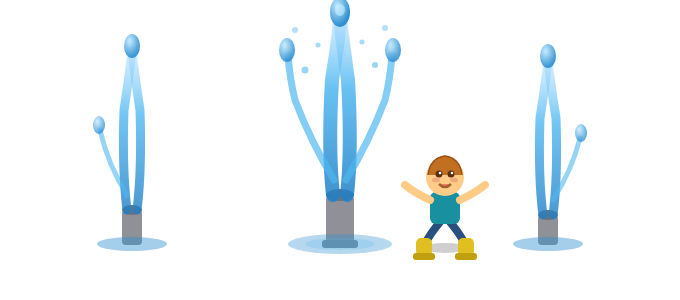
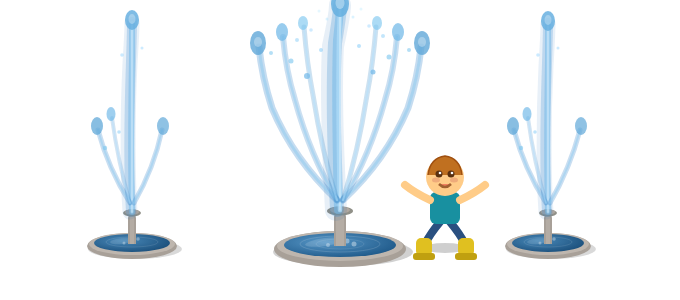
Wasser: realistischere Fontänen + Kartenposition korrigiert
- Fontänen neu: Steinbecken mit 3D-Rand, Wasseroberfläche mit Glanz/Kräusel/Schaum,
  konische Säule, 5-schichtige transluzente Wasserstrahlen, 3 Seitenbögen je Seite
- Karte: Position von x=985 nach x=830 verschoben (etwas mittiger)

Changed region(s): [[0.3706, 0.0, 0.6485, 0.9], [0.7412, 0.03, 0.8956, 0.87], [0.1235, 0.03, 0.2779, 0.87]]

diff --git a/js/main.js b/js/main.js
@@ -825,50 +825,31 @@ function strassenSVG() {
 function wasserSVG() {
   return `<svg viewBox="0 0 680 300" xmlns="http://www.w3.org/2000/svg" class="modal-illu">
     <defs>
-      <!-- Hintergrund-Himmel -->
       <linearGradient id="was-sky" x1="0" y1="0" x2="0" y2="1">
-        <stop offset="0%" stop-color="#5ab0e0"/>
-        <stop offset="100%" stop-color="#b8e4f8"/>
+        <stop offset="0%" stop-color="#5ab0e0"/><stop offset="100%" stop-color="#b8e4f8"/>
       </linearGradient>
-      <!-- Boden/Pflaster -->
       <linearGradient id="was-ground" x1="0" y1="0" x2="0" y2="1">
-        <stop offset="0%" stop-color="#b8a898"/>
-        <stop offset="100%" stop-color="#907860"/>
+        <stop offset="0%" stop-color="#b8a898"/><stop offset="100%" stop-color="#907860"/>
       </linearGradient>
-      <!-- Wasserstrom (von unten nach oben) -->
-      <linearGradient id="was-stream" x1="0" y1="1" x2="0" y2="0">
-        <stop offset="0%" stop-color="#2080c8"/>
-        <stop offset="60%" stop-color="#50b8f0"/>
-        <stop offset="100%" stop-color="#a0d8ff80"/>
-      </linearGradient>
-      <!-- Wassertropfen -->
-      <radialGradient id="was-drop" cx="35%" cy="30%" r="65%">
-        <stop offset="0%" stop-color="#c0eaff"/>
-        <stop offset="100%" stop-color="#3090d0"/>
+      <radialGradient id="was-basin-lg" cx="38%" cy="38%" r="70%">
+        <stop offset="0%" stop-color="#5898c8"/><stop offset="100%" stop-color="#1e5888"/>
+      </radialGradient>
+      <radialGradient id="was-basin-sm" cx="38%" cy="38%" r="70%">
+        <stop offset="0%" stop-color="#4888b8"/><stop offset="100%" stop-color="#1a4e7a"/>
       </radialGradient>
     </defs>
 
     <!-- Himmel -->
     <rect width="680" height="300" fill="url(#was-sky)"/>
-
-    <!-- Wolken -->
-    <g opacity="0.88">
-      <ellipse cx="80" cy="44" rx="44" ry="19" fill="white"/>
-      <ellipse cx="108" cy="36" rx="32" ry="16" fill="white"/>
-      <ellipse cx="54" cy="40" rx="26" ry="14" fill="white"/>
-    </g>
-    <g opacity="0.82">
-      <ellipse cx="590" cy="38" rx="40" ry="17" fill="white"/>
-      <ellipse cx="620" cy="30" rx="28" ry="14" fill="white"/>
-    </g>
+    <g opacity="0.88"><ellipse cx="80" cy="44" rx="44" ry="19" fill="white"/><ellipse cx="108" cy="36" rx="32" ry="16" fill="white"/><ellipse cx="54" cy="40" rx="26" ry="14" fill="white"/></g>
+    <g opacity="0.82"><ellipse cx="590" cy="38" rx="40" ry="17" fill="white"/><ellipse cx="620" cy="30" rx="28" ry="14" fill="white"/></g>
 
     <!-- Boden: Pflastersteine -->
     <rect y="244" width="680" height="56" fill="url(#was-ground)"/>
-    <!-- Pflasterfugen -->
     <line x1="0" y1="256" x2="680" y2="256" stroke="#807060" stroke-width="1.5" opacity="0.5"/>
     <line x1="0" y1="268" x2="680" y2="268" stroke="#807060" stroke-width="1.5" opacity="0.5"/>
     <line x1="0" y1="280" x2="680" y2="280" stroke="#807060" stroke-width="1.5" opacity="0.5"/>
-    <line x1="50" y1="244" x2="50" y2="300" stroke="#807060" stroke-width="1.5" opacity="0.4"/>
+    <line x1="50"  y1="244" x2="50"  y2="300" stroke="#807060" stroke-width="1.5" opacity="0.4"/>
     <line x1="130" y1="244" x2="130" y2="300" stroke="#807060" stroke-width="1.5" opacity="0.4"/>
     <line x1="220" y1="244" x2="220" y2="300" stroke="#807060" stroke-width="1.5" opacity="0.4"/>
     <line x1="310" y1="244" x2="310" y2="300" stroke="#807060" stroke-width="1.5" opacity="0.4"/>
@@ -876,95 +857,131 @@ function wasserSVG() {
     <line x1="490" y1="244" x2="490" y2="300" stroke="#807060" stroke-width="1.5" opacity="0.4"/>
     <line x1="590" y1="244" x2="590" y2="300" stroke="#807060" stroke-width="1.5" opacity="0.4"/>
 
-    <!-- ── Fontäne 1 (groß, Mitte) ── -->
-    <!-- Sockel/Rohr -->
-    <rect x="326" y="195" width="28" height="50" fill="#909098" rx="5"/>
-    <rect x="322" y="240" width="36" height="8" fill="#808088" rx="3"/>
-    <!-- Düse oben -->
-    <ellipse cx="340" cy="195" rx="14" ry="6" fill="#707078"/>
-    <!-- Wasserstrahl – Hauptstrahl -->
-    <path d="M333 195 Q328 150 332 80 Q340 30 340 15" stroke="url(#was-stream)" stroke-width="14" fill="none" stroke-linecap="round" opacity="0.85"/>
-    <path d="M340 195 Q340 140 340 15" stroke="url(#was-stream)" stroke-width="10" fill="none" stroke-linecap="round" opacity="0.7"/>
-    <path d="M347 195 Q352 150 348 80 Q341 30 340 15" stroke="url(#was-stream)" stroke-width="14" fill="none" stroke-linecap="round" opacity="0.85"/>
-    <!-- Seitenspritzer (links) -->
-    <path d="M334 180 Q310 140 295 100 Q290 80 288 55" stroke="#50b8f0" stroke-width="7" fill="none" stroke-linecap="round" opacity="0.7"/>
-    <!-- Seitenspritzer (rechts) -->
-    <path d="M346 180 Q370 140 385 100 Q390 80 392 55" stroke="#50b8f0" stroke-width="7" fill="none" stroke-linecap="round" opacity="0.7"/>
-    <!-- Tropfen ganz oben -->
-    <ellipse cx="340" cy="12" rx="10" ry="15" fill="url(#was-drop)"/>
-    <ellipse cx="340" cy="10" rx="5" ry="6" fill="#c8f0ff" opacity="0.6"/>
-    <!-- Seitenspritzer-Tropfen -->
-    <ellipse cx="287" cy="50" rx="8" ry="12" fill="url(#was-drop)" opacity="0.85"/>
-    <ellipse cx="393" cy="50" rx="8" ry="12" fill="url(#was-drop)" opacity="0.85"/>
-    <!-- Sprühwasser-Tröpfchen -->
-    <circle cx="305" cy="70" r="3.5" fill="#80ccf0" opacity="0.8"/>
-    <circle cx="375" cy="65" r="3" fill="#80ccf0" opacity="0.8"/>
-    <circle cx="318" cy="45" r="2.5" fill="#80ccf0" opacity="0.7"/>
-    <circle cx="362" cy="42" r="2.5" fill="#80ccf0" opacity="0.7"/>
-    <circle cx="295" cy="30" r="3" fill="#80ccf0" opacity="0.6"/>
-    <circle cx="385" cy="28" r="3" fill="#80ccf0" opacity="0.6"/>
-    <!-- Wasserpfütze am Boden -->
-    <ellipse cx="340" cy="244" rx="52" ry="10" fill="#3090d080" opacity="0.7"/>
-    <ellipse cx="340" cy="244" rx="35" ry="6" fill="#50b8f060" opacity="0.6"/>
+    <!-- ── Fontäne 1 – groß, Mitte (cx=340) ── -->
+    <ellipse cx="343" cy="252" rx="70" ry="14" fill="#000" opacity="0.18"/>
+    <ellipse cx="340" cy="249" rx="66" ry="18" fill="#a8a098"/>
+    <ellipse cx="340" cy="246" rx="63" ry="15" fill="#beb6ae"/>
+    <ellipse cx="340" cy="245" rx="56" ry="12" fill="url(#was-basin-lg)"/>
+    <ellipse cx="325" cy="242" rx="20" ry="4" fill="white" opacity="0.14" transform="rotate(-8 325 242)"/>
+    <ellipse cx="340" cy="244" rx="40" ry="8" fill="none" stroke="white" stroke-width="0.8" opacity="0.18"/>
+    <ellipse cx="340" cy="244" rx="24" ry="5" fill="none" stroke="white" stroke-width="0.7" opacity="0.14"/>
+    <circle cx="337" cy="243" r="3" fill="white" opacity="0.44"/><circle cx="347" cy="241" r="2.5" fill="white" opacity="0.38"/>
+    <circle cx="328" cy="245" r="2" fill="white" opacity="0.34"/><circle cx="354" cy="244" r="2.5" fill="white" opacity="0.38"/>
+    <circle cx="340" cy="239" r="2" fill="white" opacity="0.32"/>
+    <path d="M334 246 L334 217 C334 214 337 211 340 210 C343 211 346 214 346 217 L346 246 Z" fill="#a8a098"/>
+    <path d="M336 246 L336 217 C336 215 338 212 340 211 C342 212 344 215 344 217 L344 246 Z" fill="#c0b8b0" opacity="0.55"/>
+    <ellipse cx="340" cy="211" rx="13" ry="4.5" fill="#909088"/>
+    <ellipse cx="340" cy="210" rx="10" ry="3.5" fill="#b0a8a0"/>
+    <path d="M336 210 C334 172 330 102 333 46 Q340 14 340 5" stroke="#2070b8" stroke-width="22" fill="none" stroke-linecap="round" opacity="0.11"/>
+    <path d="M337 210 C335 170 332 100 335 43 Q340 13 340 5" stroke="#4090d0" stroke-width="14" fill="none" stroke-linecap="round" opacity="0.27"/>
+    <path d="M338 210 C337 167 335 97 337 40 Q340 13 340 5" stroke="#70b8e8" stroke-width="8"  fill="none" stroke-linecap="round" opacity="0.52"/>
+    <path d="M340 210 C339 165 338 95 339 38 Q340 13 340 5" stroke="#b0dcf8" stroke-width="4.5" fill="none" stroke-linecap="round" opacity="0.72"/>
+    <path d="M340 210 C340 164 340 94 340 8"                stroke="white"   stroke-width="1.5" fill="none" stroke-linecap="round" opacity="0.40"/>
+    <path d="M337 200 Q294 160 272 108 Q262 77 259 47" stroke="#3080c8" stroke-width="7" fill="none" stroke-linecap="round" opacity="0.28"/>
+    <path d="M337 200 Q294 160 272 108 Q262 77 259 47" stroke="#90ccf0" stroke-width="3" fill="none" stroke-linecap="round" opacity="0.52"/>
+    <path d="M337 200 Q310 155 295 100 Q286 71 283 37" stroke="#3080c8" stroke-width="6" fill="none" stroke-linecap="round" opacity="0.25"/>
+    <path d="M337 200 Q310 155 295 100 Q286 71 283 37" stroke="#90ccf0" stroke-width="2.5" fill="none" stroke-linecap="round" opacity="0.48"/>
+    <path d="M337 200 Q322 152 313 95 Q307 64 304 27" stroke="#4890c8" stroke-width="5" fill="none" stroke-linecap="round" opacity="0.27"/>
+    <path d="M337 200 Q322 152 313 95 Q307 64 304 27" stroke="#b0e0ff" stroke-width="2" fill="none" stroke-linecap="round" opacity="0.46"/>
+    <path d="M343 200 Q386 160 408 108 Q418 77 421 47" stroke="#3080c8" stroke-width="7" fill="none" stroke-linecap="round" opacity="0.28"/>
+    <path d="M343 200 Q386 160 408 108 Q418 77 421 47" stroke="#90ccf0" stroke-width="3" fill="none" stroke-linecap="round" opacity="0.52"/>
+    <path d="M343 200 Q370 155 385 100 Q394 71 397 37" stroke="#3080c8" stroke-width="6" fill="none" stroke-linecap="round" opacity="0.25"/>
+    <path d="M343 200 Q370 155 385 100 Q394 71 397 37" stroke="#90ccf0" stroke-width="2.5" fill="none" stroke-linecap="round" opacity="0.48"/>
+    <path d="M343 200 Q358 152 367 95 Q373 64 376 27" stroke="#4890c8" stroke-width="5" fill="none" stroke-linecap="round" opacity="0.27"/>
+    <path d="M343 200 Q358 152 367 95 Q373 64 376 27" stroke="#b0e0ff" stroke-width="2" fill="none" stroke-linecap="round" opacity="0.46"/>
+    <ellipse cx="258" cy="43" rx="8" ry="12" fill="#60a8d8" opacity="0.80"/><ellipse cx="258" cy="42" rx="4" ry="5" fill="white" opacity="0.30"/>
+    <ellipse cx="282" cy="32" rx="6" ry="9"  fill="#70b8e8" opacity="0.72"/>
+    <ellipse cx="303" cy="23" rx="5" ry="7"  fill="#80c8f0" opacity="0.65"/>
+    <ellipse cx="422" cy="43" rx="8" ry="12" fill="#60a8d8" opacity="0.80"/><ellipse cx="422" cy="42" rx="4" ry="5" fill="white" opacity="0.30"/>
+    <ellipse cx="398" cy="32" rx="6" ry="9"  fill="#70b8e8" opacity="0.72"/>
+    <ellipse cx="377" cy="23" rx="5" ry="7"  fill="#80c8f0" opacity="0.65"/>
+    <ellipse cx="340" cy="4" rx="9" ry="13" fill="#68b0e0" opacity="0.88"/><ellipse cx="340" cy="3" rx="4.5" ry="6" fill="white" opacity="0.35"/>
+    <circle cx="307" cy="76" r="3"   fill="#70b8e8" opacity="0.70"/><circle cx="373" cy="72" r="2.5" fill="#70b8e8" opacity="0.70"/>
+    <circle cx="291" cy="61" r="2.5" fill="#80c8f0" opacity="0.64"/><circle cx="389" cy="57" r="2.5" fill="#80c8f0" opacity="0.64"/>
+    <circle cx="321" cy="50" r="2"   fill="#90d0f8" opacity="0.60"/><circle cx="359" cy="46" r="2"   fill="#90d0f8" opacity="0.60"/>
+    <circle cx="311" cy="30" r="1.8" fill="#a0d8ff" opacity="0.50"/><circle cx="369" cy="26" r="1.8" fill="#a0d8ff" opacity="0.50"/>
+    <circle cx="327" cy="19" r="1.5" fill="#b0e4ff" opacity="0.46"/><circle cx="353" cy="17" r="1.5" fill="#b0e4ff" opacity="0.46"/>
 
-    <!-- ── Fontäne 2 (links) ── -->
-    <rect x="122" y="210" width="20" height="35" fill="#909098" rx="4"/>
-    <ellipse cx="132" cy="210" rx="10" ry="5" fill="#707078"/>
-    <path d="M127 210 Q122 170 124 110 Q130 70 132 50" stroke="url(#was-stream)" stroke-width="9" fill="none" stroke-linecap="round" opacity="0.8"/>
-    <path d="M132 210 Q132 160 132 50" stroke="url(#was-stream)" stroke-width="7" fill="none" stroke-linecap="round" opacity="0.65"/>
-    <path d="M137 210 Q142 170 140 110 Q134 70 132 50" stroke="url(#was-stream)" stroke-width="9" fill="none" stroke-linecap="round" opacity="0.8"/>
-    <ellipse cx="132" cy="46" rx="8" ry="12" fill="url(#was-drop)" opacity="0.9"/>
-    <!-- Seitenspritzer links klein -->
-    <path d="M127 195 Q108 165 100 130" stroke="#50b8f0" stroke-width="5" fill="none" stroke-linecap="round" opacity="0.6"/>
-    <ellipse cx="99" cy="125" rx="6" ry="9" fill="url(#was-drop)" opacity="0.75"/>
-    <!-- Pfütze -->
-    <ellipse cx="132" cy="244" rx="35" ry="7" fill="#3090d070"/>
+    <!-- ── Fontäne 2 – links (cx=132) ── -->
+    <ellipse cx="135" cy="249" rx="47" ry="10" fill="#000" opacity="0.15"/>
+    <ellipse cx="132" cy="246" rx="45" ry="13" fill="#a8a098"/>
+    <ellipse cx="132" cy="244" rx="43" ry="11" fill="#beb6ae"/>
+    <ellipse cx="132" cy="243" rx="38" ry="9"  fill="url(#was-basin-sm)"/>
+    <ellipse cx="122" cy="241" rx="12" ry="3"  fill="white" opacity="0.12" transform="rotate(-6 122 241)"/>
+    <ellipse cx="132" cy="242" rx="26" ry="5"  fill="none" stroke="white" stroke-width="0.7" opacity="0.15"/>
+    <circle cx="130" cy="241" r="2.2" fill="white" opacity="0.40"/><circle cx="138" cy="239" r="1.8" fill="white" opacity="0.35"/><circle cx="124" cy="243" r="1.5" fill="white" opacity="0.32"/>
+    <path d="M128 244 L128 218 C128 216 130 214 132 213 C134 214 136 216 136 218 L136 244 Z" fill="#a8a098"/>
+    <path d="M130 244 L130 218 C130 217 131 215 132 214 C133 215 134 217 134 218 L134 244 Z" fill="#c0b8b0" opacity="0.5"/>
+    <ellipse cx="132" cy="213" rx="9" ry="3.5" fill="#909088"/>
+    <ellipse cx="132" cy="212" rx="7" ry="2.8" fill="#b0a8a0"/>
+    <path d="M130 212 C128 183 127 122 130 63 Q132 32 132 22" stroke="#2070b8" stroke-width="15" fill="none" stroke-linecap="round" opacity="0.10"/>
+    <path d="M131 212 C129 181 129 120 131 61 Q132 31 132 22" stroke="#4090d0" stroke-width="10" fill="none" stroke-linecap="round" opacity="0.26"/>
+    <path d="M132 212 C131 180 131 118 132 59 Q132 31 132 22" stroke="#70b8e8" stroke-width="6"  fill="none" stroke-linecap="round" opacity="0.50"/>
+    <path d="M132 212 C132 179 132 117 132 22"               stroke="#b0dcf8" stroke-width="3"  fill="none" stroke-linecap="round" opacity="0.68"/>
+    <path d="M132 212 C132 179 132 117 132 25"               stroke="white"   stroke-width="1.2" fill="none" stroke-linecap="round" opacity="0.38"/>
+    <path d="M130 203 Q108 168 98 130"  stroke="#3080c8" stroke-width="5" fill="none" stroke-linecap="round" opacity="0.26"/>
+    <path d="M130 203 Q108 168 98 130"  stroke="#90ccf0" stroke-width="2" fill="none" stroke-linecap="round" opacity="0.48"/>
+    <path d="M130 203 Q118 162 112 118" stroke="#4890c8" stroke-width="4" fill="none" stroke-linecap="round" opacity="0.24"/>
+    <path d="M130 203 Q118 162 112 118" stroke="#b0e0ff" stroke-width="1.5" fill="none" stroke-linecap="round" opacity="0.44"/>
+    <path d="M134 203 Q154 168 162 130" stroke="#3080c8" stroke-width="5" fill="none" stroke-linecap="round" opacity="0.26"/>
+    <path d="M134 203 Q154 168 162 130" stroke="#90ccf0" stroke-width="2" fill="none" stroke-linecap="round" opacity="0.48"/>
+    <ellipse cx="97"  cy="126" rx="6" ry="9" fill="#60a8d8" opacity="0.75"/>
+    <ellipse cx="111" cy="114" rx="4.5" ry="7" fill="#70b8e8" opacity="0.68"/>
+    <ellipse cx="163" cy="126" rx="6" ry="9" fill="#60a8d8" opacity="0.70"/>
+    <ellipse cx="132" cy="20"  rx="7" ry="10" fill="#68b0e0" opacity="0.85"/><ellipse cx="132" cy="19" rx="3.5" ry="5" fill="white" opacity="0.30"/>
+    <circle cx="105" cy="148" r="2.2" fill="#80c8f0" opacity="0.64"/><circle cx="119" cy="132" r="1.8" fill="#90d0f8" opacity="0.58"/>
+    <circle cx="122" cy="55" r="1.8" fill="#a0d8ff" opacity="0.55"/><circle cx="142" cy="48" r="1.5" fill="#a0d8ff" opacity="0.52"/>
 
-    <!-- ── Fontäne 3 (rechts) ── -->
-    <rect x="538" y="215" width="20" height="30" fill="#909098" rx="4"/>
-    <ellipse cx="548" cy="215" rx="10" ry="5" fill="#707078"/>
-    <path d="M543 215 Q538 178 540 118 Q546 80 548 60" stroke="url(#was-stream)" stroke-width="9" fill="none" stroke-linecap="round" opacity="0.8"/>
-    <path d="M548 215 Q548 165 548 60" stroke="url(#was-stream)" stroke-width="7" fill="none" stroke-linecap="round" opacity="0.65"/>
-    <path d="M553 215 Q558 178 556 118 Q550 80 548 60" stroke="url(#was-stream)" stroke-width="9" fill="none" stroke-linecap="round" opacity="0.8"/>
-    <ellipse cx="548" cy="56" rx="8" ry="12" fill="url(#was-drop)" opacity="0.9"/>
-    <path d="M553 200 Q572 170 580 138" stroke="#50b8f0" stroke-width="5" fill="none" stroke-linecap="round" opacity="0.6"/>
-    <ellipse cx="581" cy="133" rx="6" ry="9" fill="url(#was-drop)" opacity="0.75"/>
-    <ellipse cx="548" cy="244" rx="35" ry="7" fill="#3090d070"/>
+    <!-- ── Fontäne 3 – rechts (cx=548) ── -->
+    <ellipse cx="551" cy="249" rx="45" ry="10" fill="#000" opacity="0.15"/>
+    <ellipse cx="548" cy="246" rx="43" ry="13" fill="#a8a098"/>
+    <ellipse cx="548" cy="244" rx="41" ry="11" fill="#beb6ae"/>
+    <ellipse cx="548" cy="243" rx="36" ry="9"  fill="url(#was-basin-sm)"/>
+    <ellipse cx="538" cy="241" rx="11" ry="3"  fill="white" opacity="0.12" transform="rotate(-6 538 241)"/>
+    <ellipse cx="548" cy="242" rx="24" ry="5"  fill="none" stroke="white" stroke-width="0.7" opacity="0.15"/>
+    <circle cx="546" cy="241" r="2.2" fill="white" opacity="0.40"/><circle cx="554" cy="239" r="1.8" fill="white" opacity="0.35"/><circle cx="540" cy="243" r="1.5" fill="white" opacity="0.32"/>
+    <path d="M544 244 L544 218 C544 216 546 214 548 213 C550 214 552 216 552 218 L552 244 Z" fill="#a8a098"/>
+    <path d="M546 244 L546 218 C546 217 547 215 548 214 C549 215 550 217 550 218 L550 244 Z" fill="#c0b8b0" opacity="0.5"/>
+    <ellipse cx="548" cy="213" rx="9" ry="3.5" fill="#909088"/>
+    <ellipse cx="548" cy="212" rx="7" ry="2.8" fill="#b0a8a0"/>
+    <path d="M546 212 C544 183 543 125 546 66 Q548 33 548 23" stroke="#2070b8" stroke-width="15" fill="none" stroke-linecap="round" opacity="0.10"/>
+    <path d="M547 212 C545 181 545 122 547 63 Q548 32 548 23" stroke="#4090d0" stroke-width="10" fill="none" stroke-linecap="round" opacity="0.26"/>
+    <path d="M548 212 C547 180 547 120 548 61 Q548 32 548 23" stroke="#70b8e8" stroke-width="6"  fill="none" stroke-linecap="round" opacity="0.50"/>
+    <path d="M548 212 C548 179 548 119 548 23"               stroke="#b0dcf8" stroke-width="3"  fill="none" stroke-linecap="round" opacity="0.68"/>
+    <path d="M548 212 C548 179 548 119 548 26"               stroke="white"   stroke-width="1.2" fill="none" stroke-linecap="round" opacity="0.38"/>
+    <path d="M546 203 Q524 168 514 130" stroke="#3080c8" stroke-width="5" fill="none" stroke-linecap="round" opacity="0.26"/>
+    <path d="M546 203 Q524 168 514 130" stroke="#90ccf0" stroke-width="2" fill="none" stroke-linecap="round" opacity="0.48"/>
+    <path d="M546 203 Q534 162 528 118" stroke="#4890c8" stroke-width="4" fill="none" stroke-linecap="round" opacity="0.24"/>
+    <path d="M546 203 Q534 162 528 118" stroke="#b0e0ff" stroke-width="1.5" fill="none" stroke-linecap="round" opacity="0.44"/>
+    <path d="M550 203 Q570 168 580 130" stroke="#3080c8" stroke-width="5" fill="none" stroke-linecap="round" opacity="0.26"/>
+    <path d="M550 203 Q570 168 580 130" stroke="#90ccf0" stroke-width="2" fill="none" stroke-linecap="round" opacity="0.48"/>
+    <ellipse cx="513" cy="126" rx="6" ry="9" fill="#60a8d8" opacity="0.75"/>
+    <ellipse cx="527" cy="114" rx="4.5" ry="7" fill="#70b8e8" opacity="0.68"/>
+    <ellipse cx="581" cy="126" rx="6" ry="9" fill="#60a8d8" opacity="0.70"/>
+    <ellipse cx="548" cy="21"  rx="7" ry="10" fill="#68b0e0" opacity="0.85"/><ellipse cx="548" cy="20" rx="3.5" ry="5" fill="white" opacity="0.30"/>
+    <circle cx="521" cy="148" r="2.2" fill="#80c8f0" opacity="0.64"/><circle cx="535" cy="132" r="1.8" fill="#90d0f8" opacity="0.58"/>
+    <circle cx="538" cy="55" r="1.8" fill="#a0d8ff" opacity="0.55"/><circle cx="558" cy="48" r="1.5" fill="#a0d8ff" opacity="0.52"/>
 
-    <!-- ── Kind mit Gummistiefeln (rechts von Mitte) ── -->
-    <!-- Schatten -->
+    <!-- ── Kind mit Gummistiefeln ── -->
     <ellipse cx="445" cy="248" rx="22" ry="5" fill="#00000030"/>
-    <!-- Körper (springend) -->
-    <!-- Beine (gespreizt, Gummistiefel) -->
     <path d="M440 222 Q430 234 425 244" stroke="#2a5080" stroke-width="8" stroke-linecap="round" fill="none"/>
     <path d="M450 222 Q460 234 465 244" stroke="#2a5080" stroke-width="8" stroke-linecap="round" fill="none"/>
-    <!-- Gummistiefel links (gelb) -->
     <rect x="416" y="238" width="16" height="18" fill="#e0c020" rx="5"/>
-    <rect x="413" y="253" width="22" height="7" fill="#c0a010" rx="3"/>
-    <!-- Gummistiefel rechts (gelb) -->
+    <rect x="413" y="253" width="22" height="7"  fill="#c0a010" rx="3"/>
     <rect x="458" y="238" width="16" height="18" fill="#e0c020" rx="5"/>
-    <rect x="455" y="253" width="22" height="7" fill="#c0a010" rx="3"/>
-    <!-- Körper (türkiser Regenmantel) -->
+    <rect x="455" y="253" width="22" height="7"  fill="#c0a010" rx="3"/>
     <rect x="430" y="192" width="30" height="32" fill="#1890a0" rx="6"/>
-    <!-- Arme ausgestreckt (Gleichgewicht) -->
     <path d="M430 200 Q415 193 405 185" stroke="#ffcc88" stroke-width="8" stroke-linecap="round" fill="none"/>
     <path d="M460 200 Q475 193 485 185" stroke="#ffcc88" stroke-width="8" stroke-linecap="round" fill="none"/>
-    <!-- Kopf -->
     <circle cx="445" cy="177" r="19" fill="#ffcc88"/>
-    <!-- Haar -->
     <path d="M428 175 Q430 158 445 156 Q460 158 462 175" fill="#c07020" stroke="#a05010" stroke-width="1.5"/>
-    <!-- Gesicht (überrascht/Spaß) -->
-    <circle cx="439" cy="174" r="3.5" fill="#5a3010"/>
-    <circle cx="451" cy="174" r="3.5" fill="#5a3010"/>
-    <circle cx="440" cy="173" r="1.3" fill="white"/>
-    <circle cx="452" cy="173" r="1.3" fill="white"/>
-    <!-- Offener Mund (Freude) -->
+    <circle cx="439" cy="174" r="3.5" fill="#5a3010"/><circle cx="451" cy="174" r="3.5" fill="#5a3010"/>
+    <circle cx="440" cy="173" r="1.3" fill="white"/><circle cx="452" cy="173" r="1.3" fill="white"/>
     <path d="M439 184 Q445 190 451 184" stroke="#a06030" stroke-width="2.5" fill="#f08060"/>
-    <!-- Wangen -->
     <ellipse cx="436" cy="180" rx="4" ry="2.5" fill="#e09070" opacity="0.55"/>
     <ellipse cx="454" cy="180" rx="4" ry="2.5" fill="#e09070" opacity="0.55"/>
 
-    <!-- Pfeil + Beschriftung rechts -->
+    <!-- Pfeil + Label -->
     <path d="M618 230 L618 80" stroke="#1060a0" stroke-width="3.5" stroke-linecap="round" fill="none"/>
     <polygon points="608,95 618,68 628,95" fill="#1060a0"/>
     <rect x="598" y="120" width="72" height="70" fill="white" rx="8" opacity="0.9"/>

diff --git a/index.html b/index.html
@@ -219,11 +219,11 @@
       <!--  WASSER – Fontäne die nach oben spritzt           -->
       <!-- ══════════════════════════════════════════════════ -->
       <g class="karte-hotspot" onclick="oeffneOrt('wasser')">
-        <image href="img/wasser.png" x="985" y="155" width="260" height="115" preserveAspectRatio="xMidYMid meet"/>
-        <rect x="985" y="155" width="260" height="115" fill="transparent"/>
+        <image href="img/wasser.png" x="830" y="155" width="260" height="115" preserveAspectRatio="xMidYMid meet"/>
+        <rect x="830" y="155" width="260" height="115" fill="transparent"/>
         <g class="hover-label">
-          <rect x="1040" y="250" width="150" height="26" rx="13" fill="#2c3e50e0"/>
-          <text x="1115" y="268" font-family="Nunito" font-weight="800" font-size="13" fill="white" text-anchor="middle">💧 Wasser</text>
+          <rect x="885" y="250" width="150" height="26" rx="13" fill="#2c3e50e0"/>
+          <text x="960" y="268" font-family="Nunito" font-weight="800" font-size="13" fill="white" text-anchor="middle">💧 Wasser</text>
         </g>
       </g>
 
